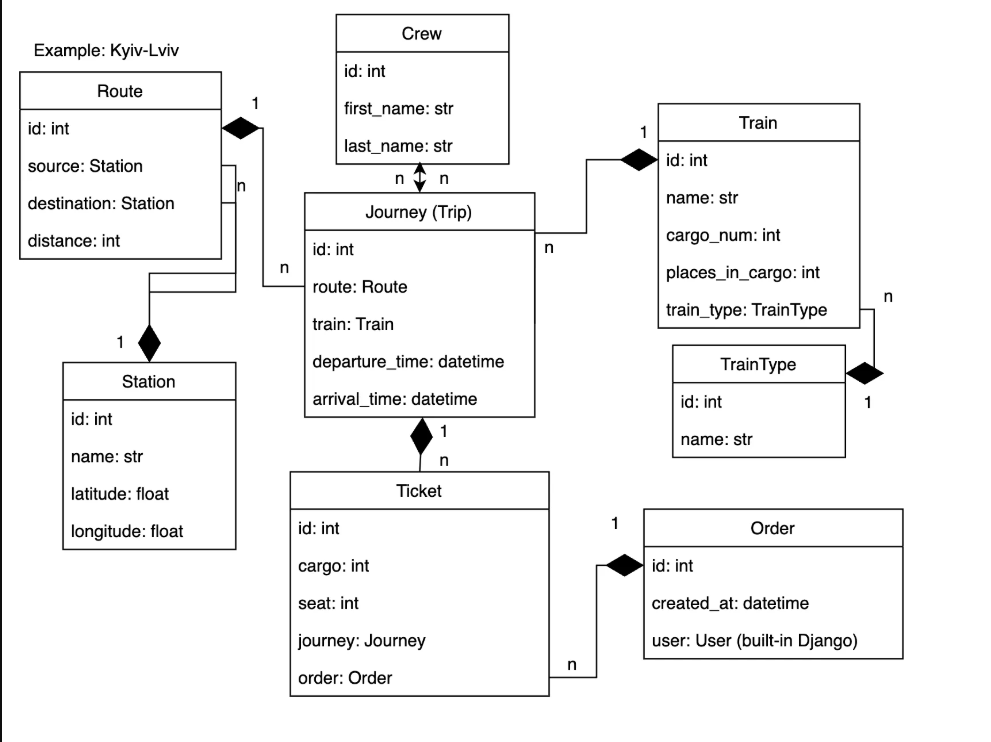
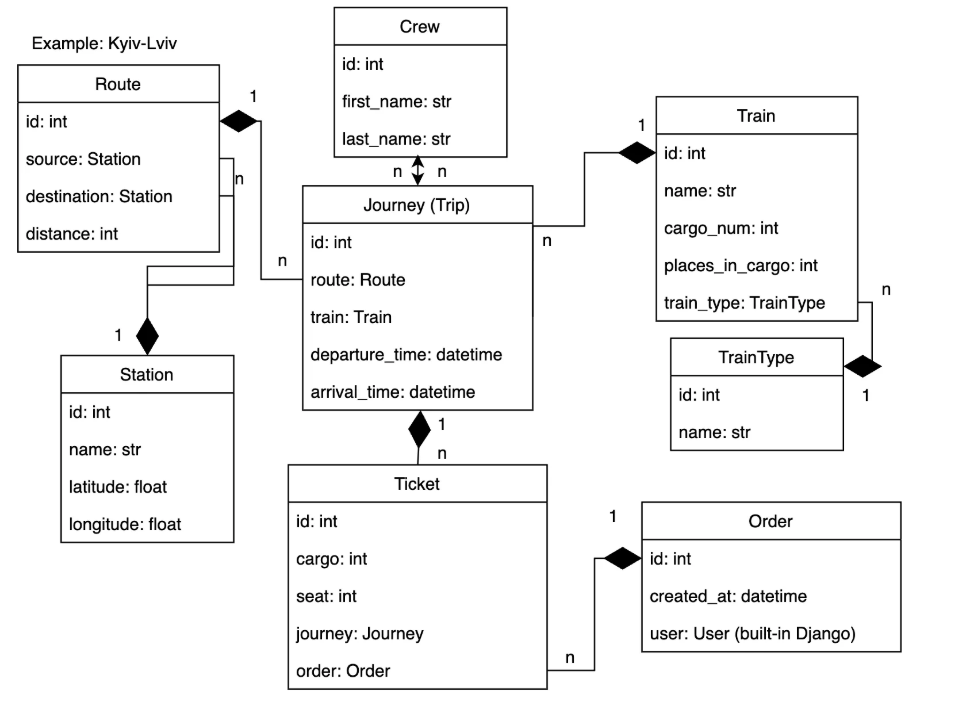
update README

Changed region(s): [[0.0, 0.0, 0.9212, 0.9499], [0.5834, 0.1226, 0.9212, 0.6435], [0.0614, 0.4596, 0.2456, 0.766]]

diff --git a/README.md b/README.md
@@ -9,8 +9,7 @@ This is a Django REST API for managing train stations, routes, trains, trips, an
 - Permission-based access control for different users.
 ---
 ## Database Structure
-![img.png](img.png)
-
+![img.png](bd-scheme.png)
 ---
 ## Setup Instructions
 
